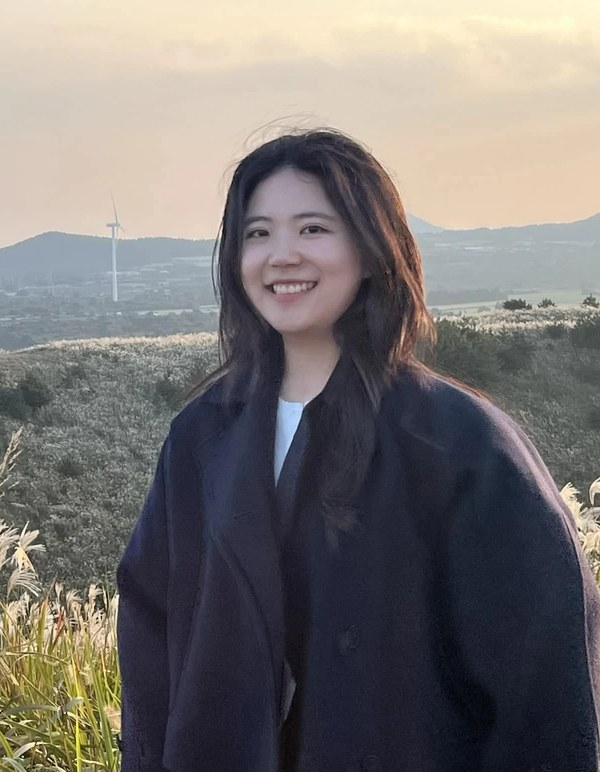
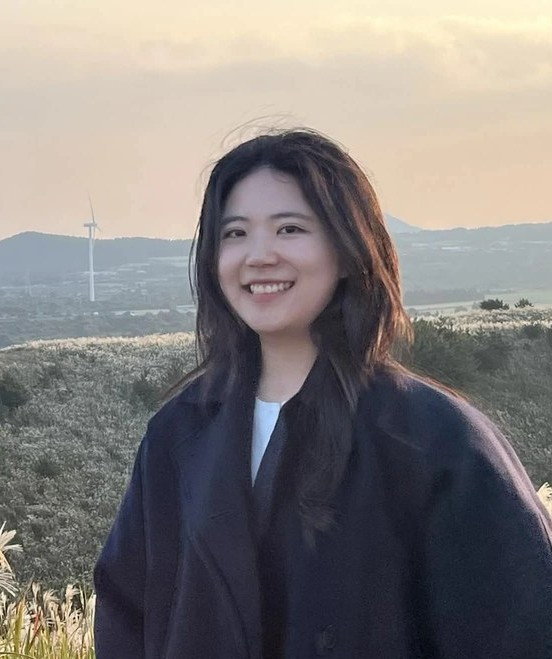
Update homepage portrait with supplied photo

diff --git a/assets/css/site.css b/assets/css/site.css
@@ -143,7 +143,7 @@
 .publications-cv .publication-group{margin:32px 0;padding:0;border:0}.publications-cv .publication-group h2,.publications-cv .talks h2{font-size:22px;border-bottom:1px solid #dce3e7;padding-bottom:10px;margin-bottom:18px}
 .article-content .deployment-site-grid{grid-template-columns:minmax(0,1fr) minmax(0,1.46fr);gap:20px;align-items:start}.deployment-site-grid>.deployment-site-figure:first-child{width:100%;max-width:none;margin:0}.deployment-site-grid>.deployment-site-figure:first-child>a{height:auto;aspect-ratio:643/352}.deployment-site-grid>.deployment-site-figure:first-child img{width:100%;height:auto}.deployment-site-abudhabi .abudhabi-photo-pair{display:grid;grid-template-columns:443fr 518.18fr;gap:0;height:auto;max-width:886px;margin:0 auto}.academic-project .deployment-site-abudhabi .abudhabi-photo-pair img{width:100%;height:auto;max-height:none;object-fit:contain}@media(max-width:600px){.article-content .deployment-site-grid{grid-template-columns:minmax(0,1fr) minmax(0,1.46fr);gap:12px}.deployment-site-grid .deployment-site-figure figcaption{font-size:11px;line-height:1.55}}
 .deployment-site-grid{display:grid;grid-template-columns:repeat(2,minmax(0,1fr));gap:28px;margin:28px auto;max-width:950px}.article-content .deployment-site-figure{margin:0;min-width:0}.deployment-site-figure>a{display:flex;align-items:center;justify-content:center;height:240px;background:#fff}.academic-project .deployment-site-figure img{display:block;width:100%;height:100%;object-fit:contain}.deployment-site-figure figcaption{font-size:13px;line-height:1.7;color:#56616f;margin-top:12px}.deployment-site-figure figcaption strong{display:block;color:#344054;margin-bottom:4px}@media(max-width:600px){.deployment-site-grid{grid-template-columns:minmax(0,1fr);gap:24px}.deployment-site-figure>a{height:auto}.academic-project .deployment-site-figure img{height:auto;max-height:280px;object-fit:contain}}
-.profile-photo-cell .profile-portrait-outdoors{width:250px;height:auto;aspect-ratio:160/206;object-fit:cover;object-position:50% 50%}@media(max-width:600px){.profile-photo-cell .profile-portrait-outdoors{width:210px}}
+.profile-photo-cell .profile-portrait-outdoors{width:250px;height:auto;aspect-ratio:552/659;object-fit:cover;object-position:50% 50%}@media(max-width:600px){.profile-photo-cell .profile-portrait-outdoors{width:210px}}
 .profile-copy .profile-text-links{margin-top:24px}.profile-copy .profile-text-links p{margin:4px 0}.profile-text-links a{overflow-wrap:anywhere}
 @media(max-width:600px){.profile-table{display:flex;flex-direction:column}.profile-table tbody,.profile-table tr,.profile-table .profile-photo-cell{display:contents}.profile-table .profile-copy{order:2;padding:12px 0}.profile-table .profile-photo-cell>a:first-child{order:1;display:block;align-self:center;margin:16px auto 8px}}
 .timeline-list-entry{margin:24px 0}.timeline-list-entry .timeline-period{font-size:15px;line-height:1.7;margin:0 0 10px}.timeline-list-entry ul{padding-left:22px;margin:10px 0 0}.timeline-list-entry li{line-height:1.75;margin:5px 0}.about-skills-list h3{font-size:15px;margin:0 0 8px}.about-profile .about-course-grid{grid-template-columns:minmax(0,1fr);gap:24px}.home-about>.about-degree{margin-top:22px}.home-about>h3{font-size:17px;margin-top:20px}.home-about-actions{display:flex;gap:24px;flex-wrap:wrap;margin-top:26px!important}

diff --git a/index.md b/index.md
@@ -7,7 +7,7 @@ description: "Personal Website"
 ---
 
 <div class="home-shell">
-<table class="profile-table" role="presentation"><tbody><tr><td class="profile-copy"><h1 class="name">Seokyung Park</h1><p>I am an M.S. student in <strong>Bio-Industrial Machinery Engineering</strong> at <a href="https://www.pusan.ac.kr/eng/Main.do">Pusan National University</a>, working in the <a href="https://pass.pusan.ac.kr/">Precision Agriculture and Smart Sensing System Lab.</a> I expect to graduate in <strong>February 2027</strong>. I received my B.S. in <strong>Plant Bioscience</strong>, with a minor in <strong>Bio-Industrial Machinery Engineering</strong>, from Pusan National University in 2025.</p><p>My research focuses on <strong>image-based analysis and sensing for agricultural applications</strong>, with a particular interest in <strong>plant phenotyping</strong>. My current work includes hyperspectral assessment of tomato damage and spatial analysis of greenhouse environmental measurements. I also have hands-on experience integrating <strong>sensors and data acquisition with robotic systems</strong>, including robotic grippers and quadruped platforms. Building on these skills, I aim to use imaging and sensing data to quantify crop traits and study their relationships with growing conditions.</p><div class="profile-text-links"><p><strong>Curriculum Vitae:</strong> <a href="/assets/documents/Seokyung_Park_CV.pdf" download="Seokyung_Park_CV.pdf">Download</a></p><p>🎓 <a href="https://scholar.google.com/citations?user=q-XZT6gAAAAJ&amp;hl=ko&amp;oi=ao" target="_blank" rel="noopener">Google Scholar</a></p><p>✉ <a href="mailto:seokyung.park@pusan.ac.kr">seokyung.park@pusan.ac.kr</a></p></div></td><td class="profile-photo-cell"><a href="/assets/images/seokyung-park-portrait.jpg"><img class="profile-portrait profile-portrait-outdoors" src="/assets/images/seokyung-park-portrait.jpg" alt="Portrait of Seokyung Park" width="600" height="772" fetchpriority="high"></a></td></tr></tbody></table>
+<table class="profile-table" role="presentation"><tbody><tr><td class="profile-copy"><h1 class="name">Seokyung Park</h1><p>I am an M.S. student in <strong>Bio-Industrial Machinery Engineering</strong> at <a href="https://www.pusan.ac.kr/eng/Main.do">Pusan National University</a>, working in the <a href="https://pass.pusan.ac.kr/">Precision Agriculture and Smart Sensing System Lab.</a> I expect to graduate in <strong>February 2027</strong>. I received my B.S. in <strong>Plant Bioscience</strong>, with a minor in <strong>Bio-Industrial Machinery Engineering</strong>, from Pusan National University in 2025.</p><p>My research focuses on <strong>image-based analysis and sensing for agricultural applications</strong>, with a particular interest in <strong>plant phenotyping</strong>. My current work includes hyperspectral assessment of tomato damage and spatial analysis of greenhouse environmental measurements. I also have hands-on experience integrating <strong>sensors and data acquisition with robotic systems</strong>, including robotic grippers and quadruped platforms. Building on these skills, I aim to use imaging and sensing data to quantify crop traits and study their relationships with growing conditions.</p><div class="profile-text-links"><p><strong>Curriculum Vitae:</strong> <a href="/assets/documents/Seokyung_Park_CV.pdf" download="Seokyung_Park_CV.pdf">Download</a></p><p>🎓 <a href="https://scholar.google.com/citations?user=q-XZT6gAAAAJ&amp;hl=ko&amp;oi=ao" target="_blank" rel="noopener">Google Scholar</a></p><p>✉ <a href="mailto:seokyung.park@pusan.ac.kr">seokyung.park@pusan.ac.kr</a></p></div></td><td class="profile-photo-cell"><a href="/assets/images/seokyung-park-portrait.jpg?v=20261014"><img class="profile-portrait profile-portrait-outdoors" src="/assets/images/seokyung-park-portrait.jpg?v=20261014" alt="Portrait of Seokyung Park" width="552" height="659" fetchpriority="high"></a></td></tr></tbody></table>
 </div><div class="home-research-band"><div class="home-shell">
 <section id="research"><h2>Research Projects</h2><p>I develop and evaluate sensing systems for crops, field environments and agricultural structures. The projects below combine experimental measurements with data analysis and physical modelling.</p><div class="research-project-grid" aria-label="Research projects"><article class="research-project-card"><div class="research-thumb"><a href="/research/quadruped-research/"><img src="/assets/images/greenhouse-sensing-platform.png" alt="Quadruped robot with sensors at two canopy heights" loading="lazy"></a></div><div class="research-summary"><h3><a class="papertitle" href="/research/quadruped-research/">01. Quadruped robots for agricultural sensing</a></h3><p><a href="/research/quadruped-research/#greenhouse">greenhouse</a> / <a href="/research/quadruped-research/#reservoir">reservoirs</a> / <a href="/research/quadruped-research/#phenotyping">phenotyping</a></p><p>Using a quadruped robot for greenhouse mapping, location-linked reservoir surveys and ongoing 3D plant phenotyping.</p></div></article><article class="research-project-card"><div class="research-thumb"><a href="/research/robotic-harvesting/"><img src="/assets/images/tomato-platform-compression.png" alt="Experimental platform with real-time force sensing and representative compression traces for S3, S5, S7 and S9" loading="lazy"></a></div><div class="research-summary"><h3><a class="papertitle" href="/research/robotic-harvesting/">02. Speed-Dependent Control of Robotic Gripper for Tomato Harvesting to Minimise Compression-Induced Damage</a></h3><p>Investigating how gripping speed affects delayed tomato damage using force measurements and hyperspectral imaging.</p></div></article><article class="research-project-card"><div class="research-thumb"><a href="/research/airdome-foundation/"><img src="/assets/images/soil-plastic-zones.png" alt="Figure 5: soil plastic zones for different X-Pile wing lengths" loading="lazy"></a></div><div class="research-summary"><h3><a class="papertitle" href="/research/airdome-foundation/">03. Analysis of uplift resistance characteristics of expandable piles in sandy soil with varying wing inclination and dimensions</a></h3><p>Using finite-element simulations to evaluate how wing length and angle affect pile uplift resistance in sandy soil.</p></div></article><article class="research-project-card"><div class="research-thumb"><a href="/research/airdome-sensing/"><span class="sensing-card-visual"><img src="/assets/images/airdome-system-figure.png" alt="Sensor placement concept" loading="lazy"><img src="/assets/images/field-load-cell.jpg" alt="Actual load-cell installation" loading="lazy"></span></a></div><div class="research-summary"><h3><a class="papertitle" href="/research/airdome-sensing/">04. Load-cell sensing for air-supported domes</a></h3><p>Measuring air-dome cable tension with load cells and recording field data using a SBC board.</p></div></article></div></section>
 <section id="about" class="home-about" aria-labelledby="home-about-heading"><h2 id="home-about-heading">About</h2><div class="about-degree compact-education">
